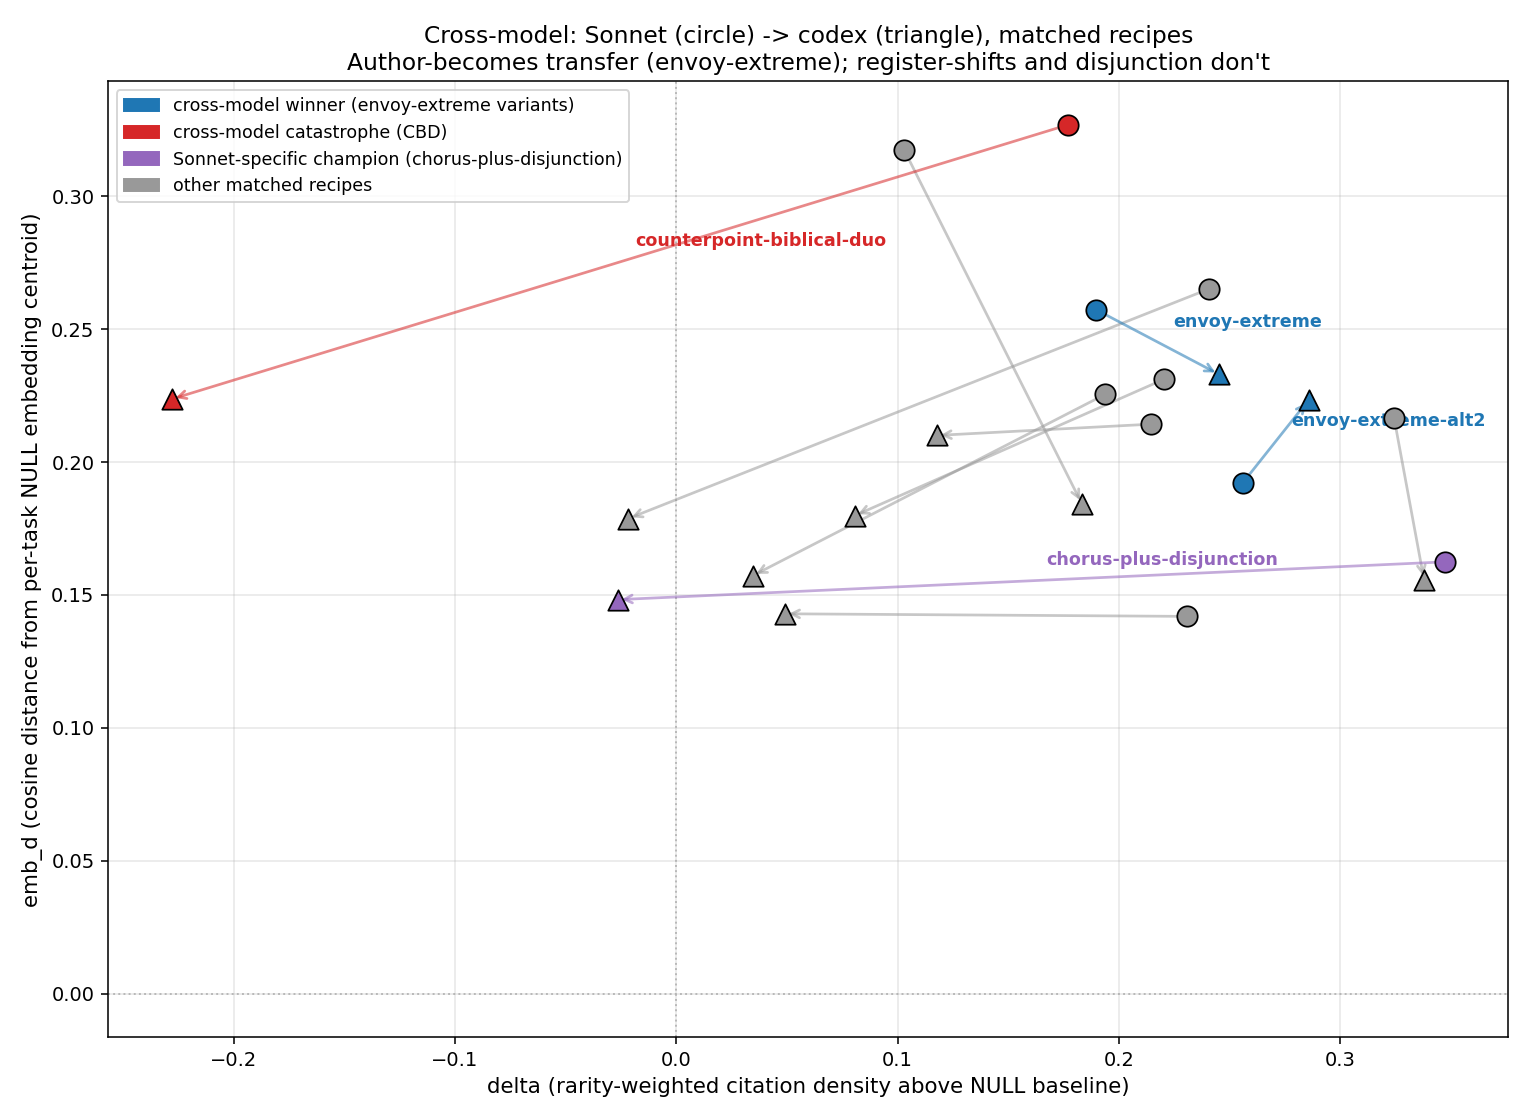
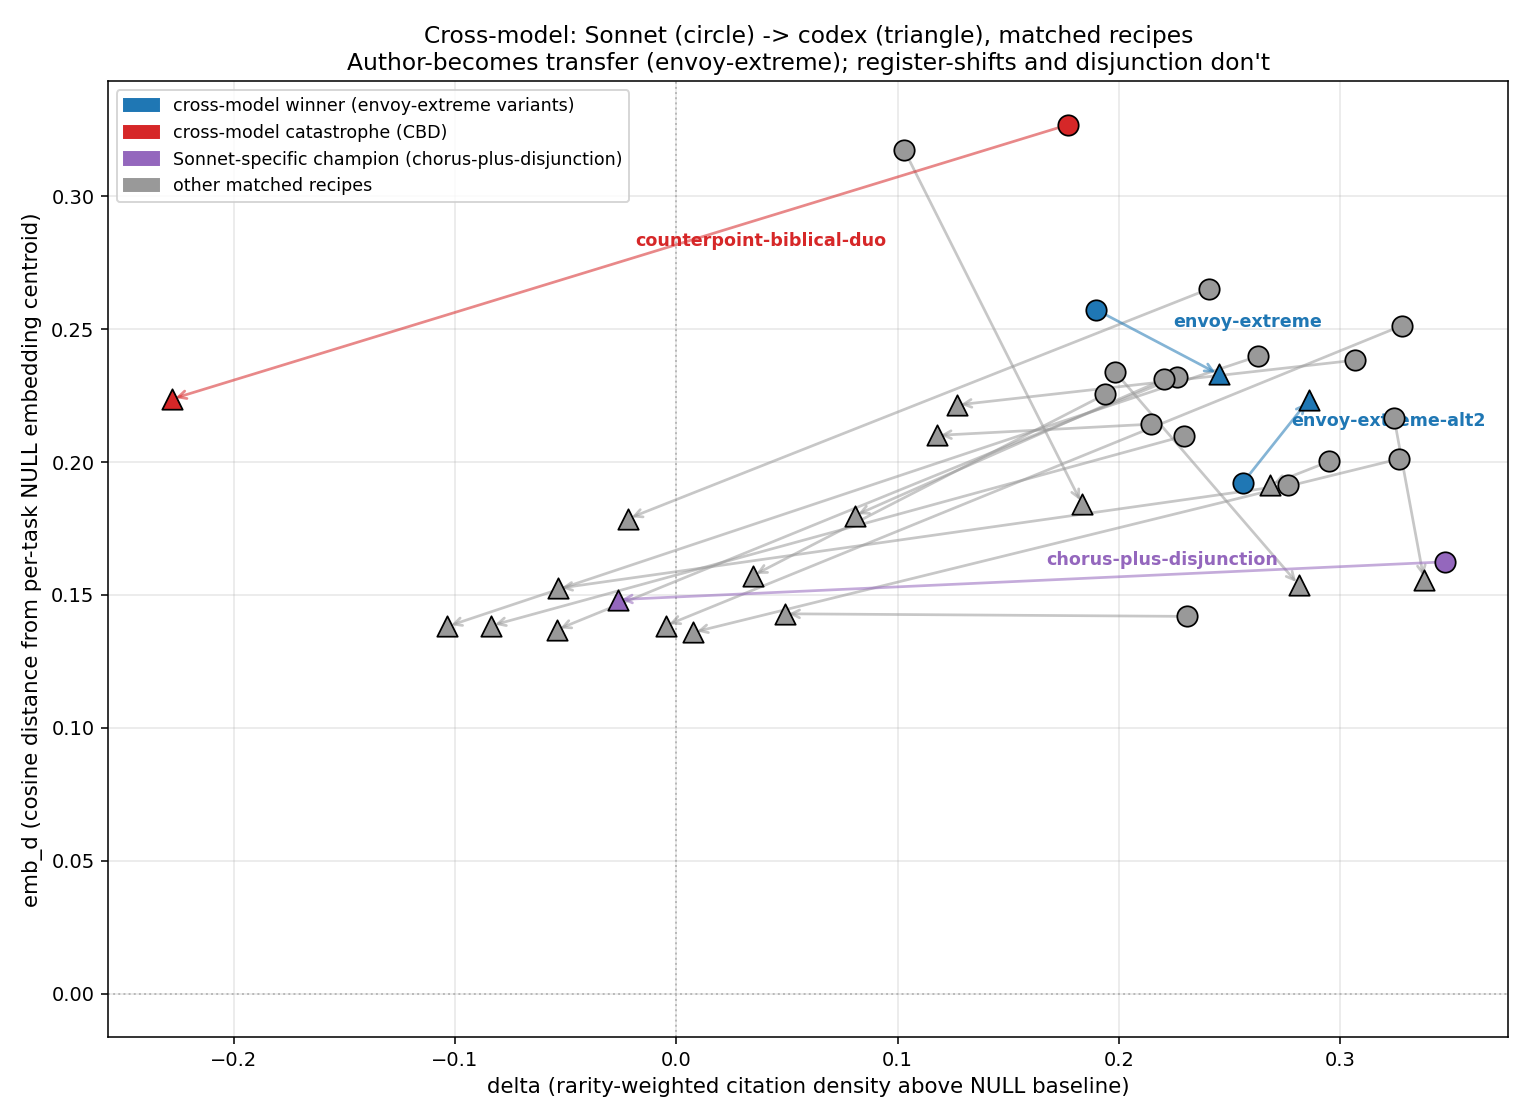
docs: add three-model Pareto chart + embed in blog post
Added plot_pareto_three_models() to experiments/plot.py -- a three-panel
Pareto frontier (Sonnet / Opus / codex) highlighting v6.8.0
productionized stratagems and Pareto-frontier candidates. Color codes:
red = delta champion, blue = chord-anchor / Pareto-emb_d recipes,
purple = other notable, green = cross-model transfer, grey = other
recipes with N>=10. Each panel has a one-line headline summarizing the
delta ceiling.

The chart makes the architectural fingerprints visible at a glance:
- Sonnet panel: dense cluster around +0.30-0.41 delta (many viable
  recipes; scaffolding rewards generalize)
- Opus panel: same recipes pushed further right and up (lower null
  baseline = more headroom for anchored citation density)
- Codex panel: most recipes collapse to near-zero or negative; only
  envoy-extreme and occult-extreme transfer cleanly

Embedded the new chart in the rewritten blog post with a four-paragraph
walkthrough explaining how to read each panel and what the
architectural fingerprints look like visually. Placed it right after
the cross-model fingerprints text so the figure follows the
description.

Also regenerated cross-model-pareto.png and pareto-frontier-current.png
since plot.py was re-run end-to-end -- they pick up slight changes from
the larger results pool.

diff --git a/experiments/plot.py b/experiments/plot.py
@@ -532,6 +532,151 @@ def plot_pareto_current(sonnet: dict[str, dict], codex: dict[str, dict]) -> None
     plt.close(fig)
 
 
+def plot_pareto_three_models(
+    sonnet: dict[str, dict],
+    opus: dict[str, dict],
+    codex: dict[str, dict],
+) -> None:
+    """Three-panel Pareto frontier: Sonnet / Opus / Codex.
+
+    Highlights v6.8.0 productionized stratagems and the model-specific
+    architectural fingerprints (Sonnet rewards scaffolding, Opus rewards
+    bare anchors, codex needs occult-anchors + author-extremity).
+    """
+    fig, axes = plt.subplots(1, 3, figsize=(18, 6), sharey=False)
+
+    # Recipe name -> display label. Used across all three panels;
+    # not every recipe is present in every model.
+    LABELS = {
+        "null": "NULL",
+        "chorus": "chorus",
+        "chorus-plus-disjunction": "antinomy",
+        "envoy-extreme": "envoy-extreme",
+        "R9B2-commitment-double-excerpt": "anchor-duo (R9B2)",
+        "R12-anchor-duo-occult": "anchor-duo",
+        "R12-sigil-name-commitment": "sigil",
+        "R12-grimoire-register": "grimoire",
+        "R12-occult-cosmologists": "occult-extreme",
+        "R14-anchor-duo-name": "anchor-duo-name",
+        "R19-chord-anchor": "chord-anchor",
+        "R19-witness-anchor": "witness-anchor",
+        "R20-chord-witness-anchor": "chord-witness-anchor",
+        "R21-chord-of-becomes": "chord-of-becomes",
+        "R22-chord-anchor-bare": "chord-anchor-bare",
+        "R23-chord-extreme-occult": "chord-extreme",
+    }
+
+    # Per-model recipes worth highlighting and their offsets for label placement.
+    # Format: name -> (color, offset_xy)
+    PANEL_HIGHLIGHTS = {
+        "Sonnet (claude-sonnet-4-6)": {
+            "data": sonnet,
+            "highlights": {
+                "R14-anchor-duo-name": ("#d62728", (8, 4)),     # delta champion
+                "R19-chord-anchor": ("#1f77b4", (8, 4)),        # Pareto chord
+                "R22-chord-anchor-bare": ("#1f77b4", (8, -14)),
+                "R12-sigil-name-commitment": ("#9467bd", (-90, 4)),
+                "R12-anchor-duo-occult": ("#999999", (8, -14)),
+                "chorus-plus-disjunction": ("#999999", (8, 4)),
+                "envoy-extreme": ("#2ca02c", (-90, -12)),
+            },
+            "headline": "delta ceiling: anchor-duo-name +0.407",
+        },
+        "Opus (claude-opus-4-7)": {
+            "data": opus,
+            "highlights": {
+                "R12-anchor-duo-occult": ("#d62728", (8, -14)),    # delta champion
+                "R19-chord-anchor": ("#1f77b4", (8, 4)),           # dual-axis
+                "R22-chord-anchor-bare": ("#1f77b4", (-105, -14)),
+                "R20-chord-witness-anchor": ("#9467bd", (8, 4)),   # emb_d champion
+                "R12-sigil-name-commitment": ("#999999", (8, -14)),
+                "R14-anchor-duo-name": ("#999999", (8, 4)),
+                "envoy-extreme": ("#2ca02c", (-100, 4)),
+                "chorus-plus-disjunction": ("#999999", (8, 4)),
+            },
+            "headline": "delta ceiling: anchor-duo +0.596 (N=20)",
+        },
+        "Codex (gpt-5.5)": {
+            "data": codex,
+            "highlights": {
+                "R12-occult-cosmologists": ("#d62728", (8, 4)),   # only stable winner
+                "envoy-extreme": ("#2ca02c", (8, -14)),
+                "R12-anchor-duo-occult": ("#999999", (8, 4)),     # tank
+                "R19-chord-anchor": ("#999999", (8, -14)),        # tank
+                "R12-sigil-name-commitment": ("#999999", (-100, 4)),
+            },
+            "headline": "only occult-extreme/envoy-extreme transfer",
+        },
+    }
+
+    for ax, (title, panel) in zip(axes, PANEL_HIGHLIGHTS.items()):
+        data = panel["data"]
+        highlights = panel["highlights"]
+
+        # Plot every recipe with N>=10 as a grey background dot.
+        bg_d, bg_e = [], []
+        for name, r in data.items():
+            if r["n"] < 10 or r["control"]:
+                continue
+            if name in highlights:
+                continue
+            bg_d.append(r["delta"])
+            bg_e.append(r["emb_dist"])
+        ax.scatter(bg_d, bg_e, c="#dddddd", s=14, alpha=0.6, zorder=1)
+
+        # NULL baseline at origin.
+        if "null" in data:
+            n = data["null"]
+            ax.scatter([n["delta"]], [n["emb_dist"]], c="black", s=80,
+                       marker="x", zorder=3)
+            ax.annotate("NULL", (n["delta"], n["emb_dist"]),
+                        xytext=(6, 6), textcoords="offset points",
+                        fontsize=9, color="black")
+
+        # Highlighted recipes.
+        for recipe, (color, offset) in highlights.items():
+            if recipe not in data:
+                continue
+            r = data[recipe]
+            ax.scatter([r["delta"]], [r["emb_dist"]], c=color, s=130,
+                       edgecolors="black", linewidths=1.0, zorder=4)
+            label = LABELS.get(recipe, recipe)
+            ax.annotate(label, (r["delta"], r["emb_dist"]),
+                        xytext=offset, textcoords="offset points",
+                        fontsize=9, fontweight="bold", color=color)
+
+        ax.axhline(0, color="#bbb", linestyle=":", linewidth=1, zorder=0)
+        ax.axvline(0, color="#bbb", linestyle=":", linewidth=1, zorder=0)
+        ax.set_xlabel("delta (rarity x coherence above NULL)", fontsize=10)
+        if ax is axes[0]:
+            ax.set_ylabel("emb_d (cosine distance from NULL centroid)",
+                          fontsize=10)
+        ax.set_title(f"{title}\n{panel['headline']}", fontsize=11)
+        ax.grid(True, alpha=0.25)
+
+    # Shared legend (drawn outside the rightmost panel).
+    legend_handles = [
+        mpatches.Patch(color="#d62728", label="delta champion"),
+        mpatches.Patch(color="#1f77b4", label="chord-anchor / Pareto-emb_d"),
+        mpatches.Patch(color="#9467bd", label="other notable"),
+        mpatches.Patch(color="#2ca02c", label="cross-model transfer"),
+        mpatches.Patch(color="#dddddd", label="other recipe N>=10"),
+    ]
+    fig.legend(handles=legend_handles, loc="lower center", ncol=5,
+               fontsize=9, bbox_to_anchor=(0.5, -0.02))
+
+    fig.suptitle(
+        "Pareto frontier across three generators "
+        "(18 primitives, 26 stratagems, v6.8.0)",
+        fontsize=13, y=1.00,
+    )
+    fig.tight_layout(rect=(0, 0.03, 1, 0.97))
+    out = FIGURES_DIR / "pareto-three-models.png"
+    fig.savefig(out, dpi=140, bbox_inches="tight")
+    print(f"wrote {out}")
+    plt.close(fig)
+
+
 def main():
     recipes = aggregate_recipes()
     print(f"loaded {len(recipes)} recipes")
@@ -541,11 +686,17 @@ def main():
     plot_arc(recipes)
 
     codex_path = Path(__file__).parent / "codex_results.tsv"
-    if codex_path.exists():
-        codex = aggregate_recipes(codex_path)
+    opus_path = Path(__file__).parent / "opus_results.tsv"
+    codex = aggregate_recipes(codex_path) if codex_path.exists() else {}
+    opus = aggregate_recipes(opus_path) if opus_path.exists() else {}
+    if codex:
         print(f"loaded {len(codex)} codex recipes")
         plot_cross_model(recipes, codex)
         plot_pareto_current(recipes, codex)
+    if opus:
+        print(f"loaded {len(opus)} opus recipes")
+    if codex and opus:
+        plot_pareto_three_models(recipes, opus, codex)
 
 
 if __name__ == "__main__":

diff --git a/docs/2026-05-02-teaching-claude-to-sound-less-like-itself.md b/docs/2026-05-02-teaching-claude-to-sound-less-like-itself.md
@@ -200,6 +200,20 @@ Three Anthropic-family generators give three distinct architectural fingerprints
 
 Practical rule: when the target generator is unknown, use `envoy-extreme` or `occult-extreme`. When optimizing for Sonnet, use `anchor-duo-name` or `sigil`. When optimizing for Opus, use `anchor-duo` (delta) or `chord-anchor` (dual-axis). When pushing emb_d, use `chord-witness-anchor` and accept the delta cost.
 
+The three-panel chart below shows the same recipes plotted across all three generators, with the productionized stratagems and Pareto-frontier candidates highlighted. The architectural fingerprints become visible at a glance:
+
+![Pareto frontier across three generators](figures/pareto-three-models.png)
+
+Reading the panels: every point is a recipe's `(delta, emb_d)` position averaged across the task suite. The black `x` at the origin of each panel is the NULL baseline (no recipe). Grey dots are recipes scored at N>=10 that aren't called out individually. Colored dots are the productionized stratagems and the most informative non-productionized recipes.
+
+The Sonnet panel (left) shows a cluster of viable recipes around delta +0.30 to +0.41, with `anchor-duo-name` at +0.407 as the delta ceiling. `chord-anchor` and `chord-anchor-bare` sit slightly below on delta but lift emb_d. `sigil` works at +0.327. The cluster is dense -- Sonnet has many recipes that reach the same region of the Pareto frontier, which matches the architectural finding that Sonnet rewards scaffolding generally.
+
+The Opus panel (middle) shows the same recipes pushed further on both axes -- `anchor-duo` is at delta +0.596 -- but the cluster is *spread out* on emb_d rather than concentrated. `chord-witness-anchor` sits at emb_d 0.359 (highest in the search) with a delta cost; `chord-anchor` and `chord-anchor-bare` cluster around delta +0.52-0.56 with emb_d 0.32-0.33; `envoy-extreme` reaches emb_d 0.311 from a different direction. The architectural finding -- that Opus's lower null baseline (rar*coh 0.21 vs Sonnet's 0.37) leaves more headroom for anchored citation density to fill -- shows up as the whole population shifted right relative to the Sonnet panel.
+
+The Codex panel (right) is the visual punchline: most recipes that work on Sonnet/Opus collapse to near-zero or negative delta. `R12-anchor-duo-occult` -- the Opus delta champion -- is at -0.054 on codex. `R19-chord-anchor` -- the cross-model breakthrough that was real on Sonnet/Opus -- is at -0.005, indistinguishable from NULL. Only two recipes transfer cleanly: `occult-extreme` (3 hard-extreme occult-cosmologist becomes + fork + ritual) at +0.281, and `envoy-extreme` at +0.310. The structural pattern they share -- three hard-extreme cross-domain author-becomes with fork and ritual -- is the only mechanism that survives the codex generator's response to tool-call conditioning.
+
+The figure is regenerated by `python3 experiments/plot.py` and lives at `docs/figures/pareto-three-models.png`.
+
 ## A note on Pareto positions and N
 
 Most numbers reported above are honest at the N specified. The chord-anchor productionization initially announced +0.610/0.338 at N=10 and was rolled back to the true value of +0.516/0.326 at N=30. The lesson is that N=10 is too small for productionization decisions; the rounds that get committed to stratagems are validated at N=20 minimum, with cross-model validation at N=20 separately. The findings here that survive at N=20+ are listed in the table below; findings at N=10 are flagged as such.
